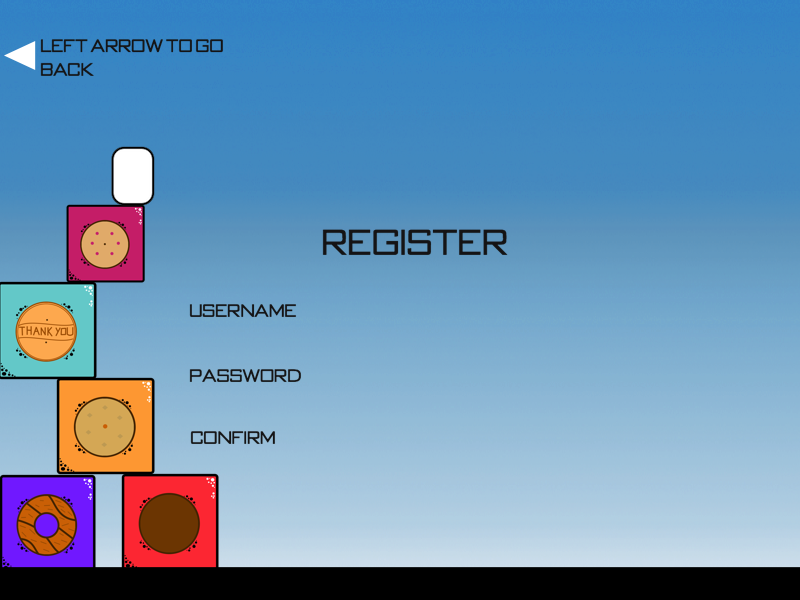
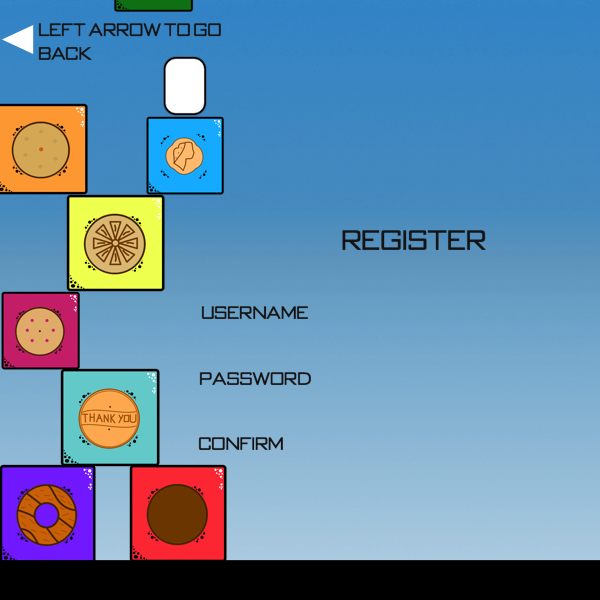
Fixed register page graphics for 600x600

Changed region(s): [[0.0, 0.0, 1.0, 0.96], [0.39, 0.36, 0.81, 0.45]]

diff --git a/initialGame/core/src/com/maxaer/screens/LoginScreen.java b/initialGame/core/src/com/maxaer/screens/LoginScreen.java
@@ -57,7 +57,7 @@ public class LoginScreen implements Screen
       
       FreeTypeFontGenerator generator = new FreeTypeFontGenerator(Gdx.files.internal("data/BankGothic-Regular.ttf"));
       FreeTypeFontParameter parameter = new FreeTypeFontParameter();
-      parameter.size = 26;
+      parameter.size = 22;
       parameter.color = Color.BLACK;
       generator.generateData(parameter);
       font = generator.generateFont(parameter);
@@ -80,7 +80,7 @@ public class LoginScreen implements Screen
       
       passwordField = new TextField("", skin);
       passwordField.setPasswordMode(true);
-      passwordField.setPasswordCharacter('.');
+      passwordField.setPasswordCharacter('*');
       passwordField.setPosition(userNameField.getX(), userNameField.getY() - userNameField.getHeight() - BTN_SPACING);
       passwordField.setWidth(170);
       stage.addActor(passwordField);

diff --git a/initialGame/core/src/com/maxaer/screens/RegisterScreen.java b/initialGame/core/src/com/maxaer/screens/RegisterScreen.java
@@ -75,7 +75,7 @@ public class RegisterScreen implements Screen
       createBasicSkin();
       
       userNameField = new TextField("", skin); // Use the initialized skin
-      userNameField.setPosition(330, Gdx.graphics.getHeight()/3 + 50);
+      userNameField.setPosition(330, Gdx.graphics.getHeight()/3 + 75);
       userNameField.setWidth(170);
       stage.addActor(userNameField);
       
